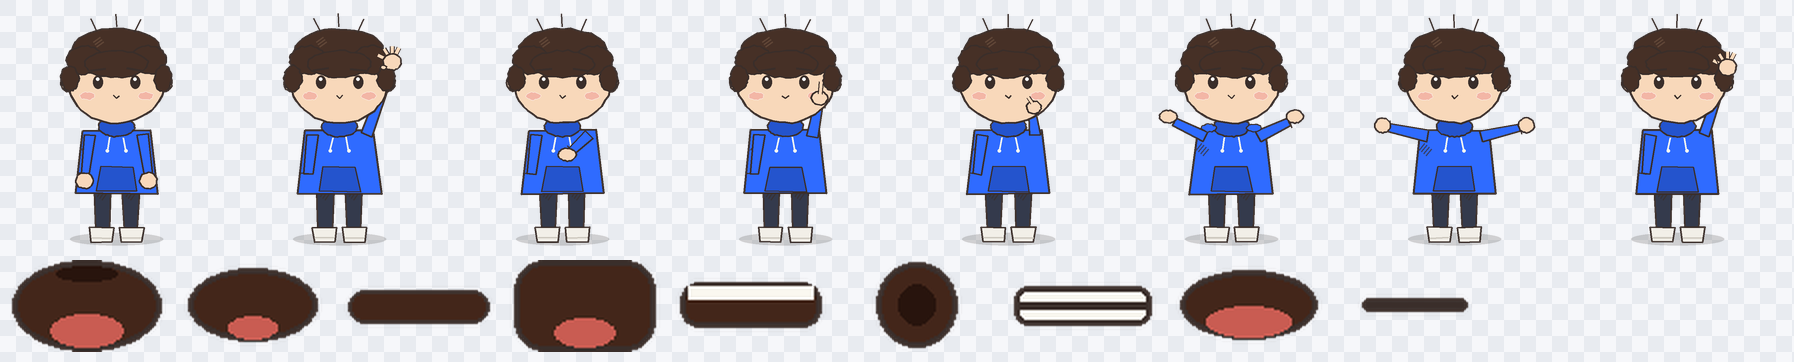
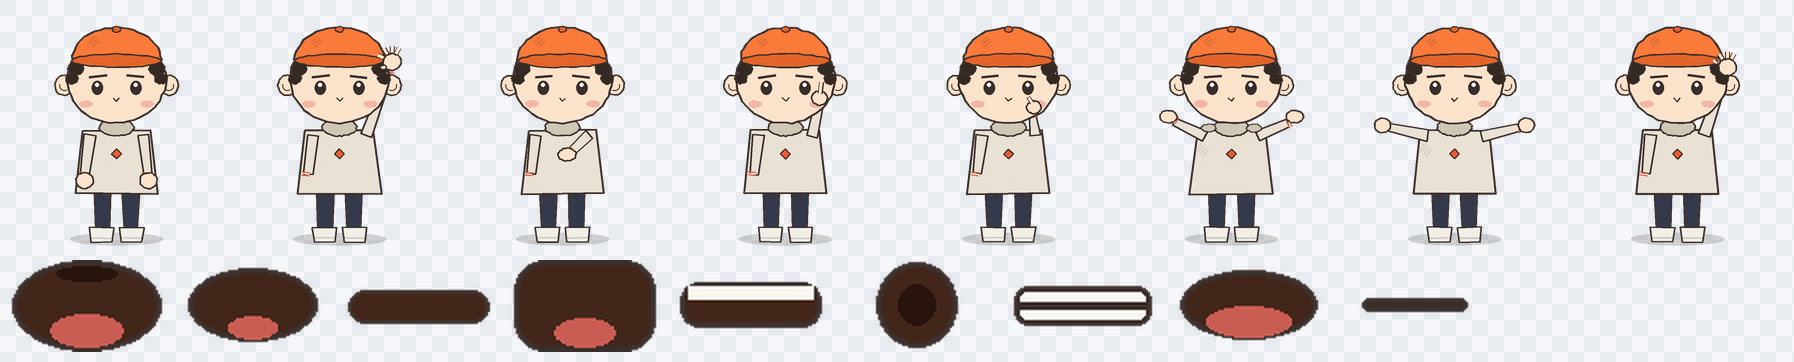
character v3: Marktalksai style-match (orange cap, curls, big ears, cream sweater + chest emblem, striped cuffs, grain)

diff --git a/pipeline/character.py b/pipeline/character.py
@@ -1,11 +1,11 @@
-"""The one-and-only sketch guy (v2 — hand-drawn style, code-drawn).
+"""The one-and-only sketch guy (v3 — Marktalksai-style, code-drawn).
 
 Drawn entirely in code (no AI credits, no licensed assets) so he is free forever,
 identical in every video, and fully automatable. Style-matched to the family-2
-sketch reference (hand-drawn look, big head, gesture vocabulary: point-up, shrug,
-wave, hand-on-chest, thinking, arms-spread) with a CHANGED appearance: no cap
-(the ref's signature — deliberately avoided), messy dark hair instead, and our
-brand-blue hoodie. Kid-safe: open hands everywhere, soft round features.
+reference character: orange baseball cap, curly side hair, big round ears, thick
+brows, cream crew-neck sweater with a red chest emblem and striped cuffs, grainy
+sketch texture. Gestures follow the reference's action vocabulary: point-up,
+hand-on-chest, arms-spread, thinking, shrug, wave, thumbs. Kid-safe open hands.
 
 Produces:
   assets/character/<pose>.png   transparent sprites (idle, point, chest, thumbs,
@@ -25,20 +25,23 @@ import random
 import zlib
 from pathlib import Path
 
+import numpy as np
 from PIL import Image, ImageDraw
 
-W, H = 640, 720  # same 32:36 aspect as the layout container (498x560)
+W, H = 640, 720  # same 32:36 aspect as the layout container (close-up 1120x1260)
 OUT = Path(__file__).resolve().parent.parent / "assets" / "character"
 
 # sketch palette — warm charcoal ink, no pure black
 INK = (58, 46, 42, 255)
-SKIN = (248, 216, 186, 255)
-SKIN_SH = (233, 193, 158, 255)
-HAIR = (70, 48, 38, 255)
-HAIR_HI = (96, 70, 55, 255)
-HOODIE = (47, 107, 255, 255)      # brand blue
-HOODIE_SH = (36, 84, 205, 255)
-STRING = (250, 248, 242, 255)
+SKIN = (250, 227, 202, 255)
+HAIR = (52, 40, 34, 255)
+CAP = (250, 122, 58, 255)          # orange baseball cap (ref signature)
+CAP_SH = (226, 100, 42, 255)
+SWEATER = (233, 225, 211, 255)     # cream crew-neck (ref)
+SWEATER_SH = (208, 198, 182, 255)
+EMBLEM = (235, 90, 50, 255)        # red chest emblem (ref)
+CUFF_RED = (235, 90, 50, 255)
+CUFF_WHITE = (248, 244, 236, 255)
 JEANS = (52, 58, 76, 255)
 SHOE = (242, 239, 232, 255)
 SOLE = (205, 200, 190, 255)
@@ -49,14 +52,15 @@ def _mix(c1, c2, t):
     return tuple(int(a + (b - a) * t) for a, b in zip(c1, c2))
 
 
-HATCH_HOODIE = _mix(INK, HOODIE, 0.30)
+HATCH_CAP = _mix(INK, CAP, 0.82)
+HATCH_SWEATER = _mix(INK, SWEATER, 0.88)
 HATCH_JEANS = _mix(INK, JEANS, 0.30)
 
 RNG = random.Random(0)
 
 
 def _reseed(name: str) -> None:
-    """Deterministic wobble per pose — the sheet matches the saved sprites."""
+    """Deterministic wobble + grain per pose — the sheet matches saved sprites."""
     RNG.seed(zlib.crc32(name.encode()) ^ 0xA11CE)
 
 
@@ -83,17 +87,20 @@ def _sketch_ellipse(d, cx, cy, rx, ry, fill, outline=INK, width=6, amt=2.5, n=48
 
 
 def _limb(d, p0, p1, w0, w1, fill):
-    """Tapered sleeve with hand-drawn wobble + ink outline."""
+    """Tapered sleeve with hand-drawn wobble, ink outline, striped wrist cuff."""
     dx, dy = p1[0] - p0[0], p1[1] - p0[1]
     ln = math.hypot(dx, dy) or 1.0
     nx, ny = -dy / ln, dx / ln
     pts = [(p0[0] + nx * w0, p0[1] + ny * w0), (p1[0] + nx * w1, p1[1] + ny * w1),
            (p1[0] - nx * w1, p1[1] - ny * w1), (p0[0] - nx * w0, p0[1] - ny * w0)]
     _sketch_poly(d, pts, fill, width=5, amt=2.0)
-    # cuff line at the wrist
-    cx, cy = (p1[0] + nx * w1 * 0.7, p1[1] + ny * w1 * 0.7)
-    d.line([_j((cx - nx * 12, cy - ny * 12), 1.5), _j((cx + nx * 12, cy + ny * 12), 1.5)],
-           fill=INK, width=4)
+    # wrist band: the ref wears red/white striped cuffs
+    cx, cy = p1[0] + nx * w1 * 0.55, p1[1] + ny * w1 * 0.55
+    for i, col in ((0, CUFF_RED), (1, CUFF_WHITE), (2, CUFF_RED)):
+        t = (i - 1) * 4.5
+        a = _j((cx + nx * (w1 * 0.9) - dx / ln * t, cy + ny * (w1 * 0.9) - dy / ln * t), 1.0)
+        b = _j((cx - nx * (w1 * 0.9) - dx / ln * t, cy - ny * (w1 * 0.9) - dy / ln * t), 1.0)
+        d.line([a, b], fill=col, width=4)
 
 
 def _hand(d, cx, cy, r=26, spread=False, fingers=True):
@@ -117,6 +124,23 @@ def _hatch(d, x, y, n, ang_deg, ln=26, color=INK, width=3, gap=9):
                fill=color, width=width)
 
 
+def _grain(img, bbox, n, color):
+    """Sketch-grain speckles clipped to the drawn shape inside bbox."""
+    x0, y0, x1, y1 = bbox
+    region = np.asarray(img.crop((x0, y0, x1, y1))).copy()
+    mask = region[..., 3] > 40
+    h, w = mask.shape
+    hits = 0
+    for _ in range(n * 3):
+        if hits >= n:
+            break
+        gx, gy = RNG.randrange(w), RNG.randrange(h)
+        if mask[gy, gx]:
+            region[gy, gx] = color
+            hits += 1
+    img.paste(Image.fromarray(region), (x0, y0))
+
+
 # ---------- body parts (shared by every pose) ----------
 
 def _shadow(img):
@@ -137,45 +161,56 @@ def _legs(d):
         d.line([_j((x0 + 8, 684), 1.5), _j((x1 - 8, 684), 1.5)], fill=SOLE, width=5)
 
 
-def _torso(d):
+def _torso(img, d):
+    # cream crew-neck sweater (ref) with red chest emblem
     _sketch_poly(d, [(218, 360), (422, 360), (444, 552), (196, 552)],
-                 HOODIE, width=6, amt=2.5)
-    # kangaroo pocket + drawstrings + hatching
-    _sketch_poly(d, [(272, 470), (368, 470), (382, 545), (258, 545)],
-                 HOODIE_SH, width=4, amt=2.0)
-    for x0, x1 in (((300, 382), (292, 420)), ((340, 382), (348, 420))):
-        d.line([_j(x0, 1.5), _j(x1, 1.5)], fill=STRING, width=5)
-        d.ellipse([x1[0] - 5, x1[1] - 3, x1[0] + 5, x1[1] + 7], fill=STRING)
-    _hatch(d, 214, 420, 4, -50, color=HATCH_HOODIE)
+                 SWEATER, width=6, amt=2.5)
+    _sketch_ellipse(d, 320, 352, 52, 26, SWEATER_SH, width=5, amt=2.0)  # collar band
+    # red diamond emblem on the chest (ref detail)
+    ex, ey, er = 320, 432, 15
+    _sketch_poly(d, [(ex, ey - er), (ex + er, ey), (ex, ey + er), (ex - er, ey)],
+                 EMBLEM, width=4, amt=1.0)
+    _hatch(d, 214, 420, 4, -50, color=HATCH_SWEATER)
+    _grain(img, (190, 350, 450, 560), 260, HATCH_SWEATER)
 
 
-def _collar(d):
-    _sketch_ellipse(d, 320, 350, 54, 30, HOODIE_SH, width=5, amt=2.0)
-
-
-def _head(d):
-    # ears first (peek out), then head, hair, face
-    _sketch_ellipse(d, 173, 218, 20, 26, SKIN, width=5, amt=1.5, n=30)
-    _sketch_ellipse(d, 467, 218, 20, 26, SKIN, width=5, amt=1.5, n=30)
-    _sketch_ellipse(d, 320, 208, 148, 132, SKIN, width=6, amt=2.5)
-    # messy hair (no cap — deliberately different from the ref's orange cap)
-    for cx, cy, rx, ry in ((320, 118, 132, 62), (225, 150, 55, 42), (415, 150, 55, 42),
-                           (320, 162, 95, 40), (180, 205, 26, 38), (460, 205, 26, 38)):
-        _sketch_ellipse(d, cx, cy, rx, ry, HAIR, width=5, amt=3.0, n=36)
-    _hatch(d, 250, 96, 3, -35, color=HAIR_HI, width=4)
-    # stray strands
-    for x0, y0, x1, y1 in ((262, 66, 244, 26), (320, 52, 318, 12), (376, 66, 394, 28)):
-        d.line([_j((x0, y0), 2), _j((x1, y1), 2)], fill=INK, width=4)
+def _head(img):
+    """Head on its own layer (so cap grain clips to the cap), then composited."""
+    layer = Image.new("RGBA", (W, H), (0, 0, 0, 0))
+    d = ImageDraw.Draw(layer)
+    # big round ears first (ref: prominent ears, sticking out)
+    _sketch_ellipse(d, 162, 226, 27, 30, SKIN, width=5, amt=1.5, n=30)
+    _sketch_ellipse(d, 478, 226, 27, 30, SKIN, width=5, amt=1.5, n=30)
+    d.arc([148, 212, 178, 242], start=60, end=200, fill=INK, width=3)
+    d.arc([462, 212, 492, 242], start=340, end=120, fill=INK, width=3)
     # face
-    d.line([_j((240, 182), 1.5), _j((288, 176), 1.5)], fill=INK, width=7)
-    d.line([_j((352, 176), 1.5), _j((400, 182), 1.5)], fill=INK, width=7)
-    for ex in (264, 376):
-        d.ellipse([ex - 15, 196, ex + 15, 236], fill=INK)
-        d.ellipse([ex - 6, 202, ex + 4, 212], fill=(255, 255, 255, 255))
-    d.line([_j((310, 256), 1.5), _j((320, 266), 1.5), _j((330, 256), 1.5)],
+    _sketch_ellipse(d, 320, 208, 148, 132, SKIN, width=6, amt=2.5)
+    # curly black side-hair peeking below the cap (ref), ears stay visible
+    for cx, cy, r in ((198, 176, 23), (186, 206, 18), (442, 176, 23), (454, 206, 18)):
+        _sketch_ellipse(d, cx, cy, r, r * 0.9, HAIR, width=4, amt=2.0, n=26)
+    # orange baseball cap (ref signature): dome + brim + button
+    cap_pts = []
+    for i in range(25):
+        a = math.pi + math.pi * i / 24  # upper half-ellipse
+        cap_pts.append((320 + math.cos(a) * (134 + RNG.uniform(-3, 3)),
+                        150 + math.sin(a) * (98 + RNG.uniform(-3, 3))))
+    d.polygon(cap_pts, fill=CAP)
+    d.line(cap_pts + [cap_pts[0]], fill=INK, width=6, joint="curve")
+    _sketch_ellipse(d, 320, 152, 134, 20, CAP_SH, width=5, amt=2.0, n=40)  # brim
+    _sketch_ellipse(d, 320, 58, 12, 9, CAP_SH, width=4, amt=1.0, n=20)     # button
+    _hatch(d, 236, 96, 3, -40, color=HATCH_CAP, width=4)
+    _grain(layer, (180, 46, 460, 176), 140, HATCH_CAP)
+    # face details (brows under the brim, big round eyes, blush)
+    d.line([_j((238, 202), 1.5), _j((290, 196), 1.5)], fill=INK, width=8)
+    d.line([_j((350, 196), 1.5), _j((402, 202), 1.5)], fill=INK, width=8)
+    for ex in (262, 378):
+        d.ellipse([ex - 17, 212, ex + 17, 254], fill=INK)
+        d.ellipse([ex - 7, 218, ex + 5, 230], fill=(255, 255, 255, 255))
+    d.line([_j((310, 264), 1.5), _j((320, 274), 1.5), _j((330, 264), 1.5)],
            fill=INK, width=4, joint="curve")
-    for bx in (232, 408):
-        _sketch_ellipse(d, bx, 258, 22, 12, BLUSH, outline=None, width=0, amt=2.0, n=24)
+    for bx in (228, 412):
+        _sketch_ellipse(d, bx, 282, 22, 12, BLUSH, outline=None, width=0, amt=2.0, n=24)
+    img.alpha_composite(layer)
 
 
 # ---------- poses (arm choreography only; body/head shared) ----------
@@ -186,10 +221,9 @@ def _render(name, arms, hands, extras=None):
     _shadow(img)
     d = ImageDraw.Draw(img)
     _legs(d)
-    _torso(d)
-    _collar(d)
+    _torso(img, d)
     arms(d)
-    _head(d)
+    _head(img)
     for h in hands:
         h(d)
     if extras:
@@ -198,8 +232,8 @@ def _render(name, arms, hands, extras=None):
 
 
 def _arms_idle(d):
-    _limb(d, (240, 375), (226, 492), 17, 13, HOODIE)
-    _limb(d, (400, 375), (414, 492), 17, 13, HOODIE)
+    _limb(d, (240, 375), (226, 492), 17, 13, SWEATER)
+    _limb(d, (400, 375), (414, 492), 17, 13, SWEATER)
 
 
 def pose_idle():
@@ -209,8 +243,8 @@ def pose_idle():
 
 def pose_point():
     def arms(d):
-        _limb(d, (240, 375), (226, 492), 17, 13, HOODIE)
-        _limb(d, (400, 375), (468, 190), 17, 12, HOODIE)
+        _limb(d, (240, 375), (226, 492), 17, 13, SWEATER)
+        _limb(d, (400, 375), (468, 190), 17, 12, SWEATER)
 
     def hand(d):
         _hand(d, 478, 156, r=27, spread=True, fingers=True)
@@ -222,9 +256,9 @@ def pose_point():
 def pose_shrug():
     def arms(d):
         for sx, ex in ((240, 148), (400, 492)):
-            _limb(d, (sx, 380), (ex, 336), 16, 12, HOODIE)
-        _sketch_ellipse(d, 252, 354, 22, 12, HOODIE, width=4, amt=1.5, n=22)
-        _sketch_ellipse(d, 388, 354, 22, 12, HOODIE, width=4, amt=1.5, n=22)
+            _limb(d, (sx, 380), (ex, 336), 16, 12, SWEATER)
+        _sketch_ellipse(d, 252, 354, 22, 12, SWEATER_SH, width=4, amt=1.5, n=22)
+        _sketch_ellipse(d, 388, 354, 22, 12, SWEATER_SH, width=4, amt=1.5, n=22)
 
     def hands(d):
         _sketch_ellipse(d, 130, 320, 26, 19, SKIN, width=5, amt=1.5, n=28)
@@ -235,8 +269,8 @@ def pose_shrug():
 
 def pose_wave():
     def arms(d):
-        _limb(d, (240, 375), (226, 492), 17, 13, HOODIE)
-        _limb(d, (400, 375), (458, 205), 17, 12, HOODIE)
+        _limb(d, (240, 375), (226, 492), 17, 13, SWEATER)
+        _limb(d, (400, 375), (458, 205), 17, 12, SWEATER)
 
     def hand(d):
         _hand(d, 470, 172, r=27, spread=True, fingers=True)
@@ -251,8 +285,8 @@ def pose_wave():
 
 def pose_think():
     def arms(d):
-        _limb(d, (240, 375), (226, 492), 17, 13, HOODIE)
-        _limb(d, (400, 375), (392, 318), 16, 11, HOODIE)
+        _limb(d, (240, 375), (226, 492), 17, 13, SWEATER)
+        _limb(d, (400, 375), (392, 318), 16, 11, SWEATER)
 
     def hand(d):
         # hand at the CHEEK (hmm-pose) — clear of the mouth overlay box
@@ -265,8 +299,8 @@ def pose_think():
 
 def pose_chest():
     def arms(d):
-        _limb(d, (240, 375), (226, 492), 17, 13, HOODIE)
-        _limb(d, (400, 375), (348, 424), 16, 12, HOODIE)
+        _limb(d, (240, 375), (226, 492), 17, 13, SWEATER)
+        _limb(d, (400, 375), (348, 424), 16, 12, SWEATER)
 
     def hand(d):
         _sketch_ellipse(d, 334, 434, 27, 19, SKIN, width=5, amt=1.5, n=28)
@@ -276,8 +310,8 @@ def pose_chest():
 
 def pose_thumbs():
     def arms(d):
-        _limb(d, (240, 375), (226, 492), 17, 13, HOODIE)
-        _limb(d, (400, 380), (418, 288), 17, 13, HOODIE)
+        _limb(d, (240, 375), (226, 492), 17, 13, SWEATER)
+        _limb(d, (400, 380), (418, 288), 17, 13, SWEATER)
 
     def hand(d):
         _sketch_ellipse(d, 422, 264, 24, 21, SKIN, width=5, amt=1.5, n=28)
@@ -290,8 +324,8 @@ def pose_thumbs():
 
 def pose_spread():
     def arms(d):
-        _limb(d, (240, 378), (122, 352), 17, 12, HOODIE)
-        _limb(d, (400, 378), (518, 352), 17, 12, HOODIE)
+        _limb(d, (240, 378), (122, 352), 17, 12, SWEATER)
+        _limb(d, (400, 378), (518, 352), 17, 12, SWEATER)
 
     def hands(d):
         _hand(d, 104, 346, r=24)
@@ -374,7 +408,8 @@ def main() -> None:
         "sprite": {"w": W, "h": H},
         "mouth": MOUTH,
         "poses": {},
-        "style": "sketch-v2 (code-drawn, deterministic wobble; family-2 style-match)",
+        "style": "sketch-v3 (code-drawn, deterministic; Marktalksai style-match: "
+                 "orange cap, curls, big ears, cream sweater, chest emblem, striped cuffs, grain)",
         "note": "One sketch guy, drawn in code. Reused in every video. Mouth overlaid at render time.",
     }
     for name, fn in POSES.items():
